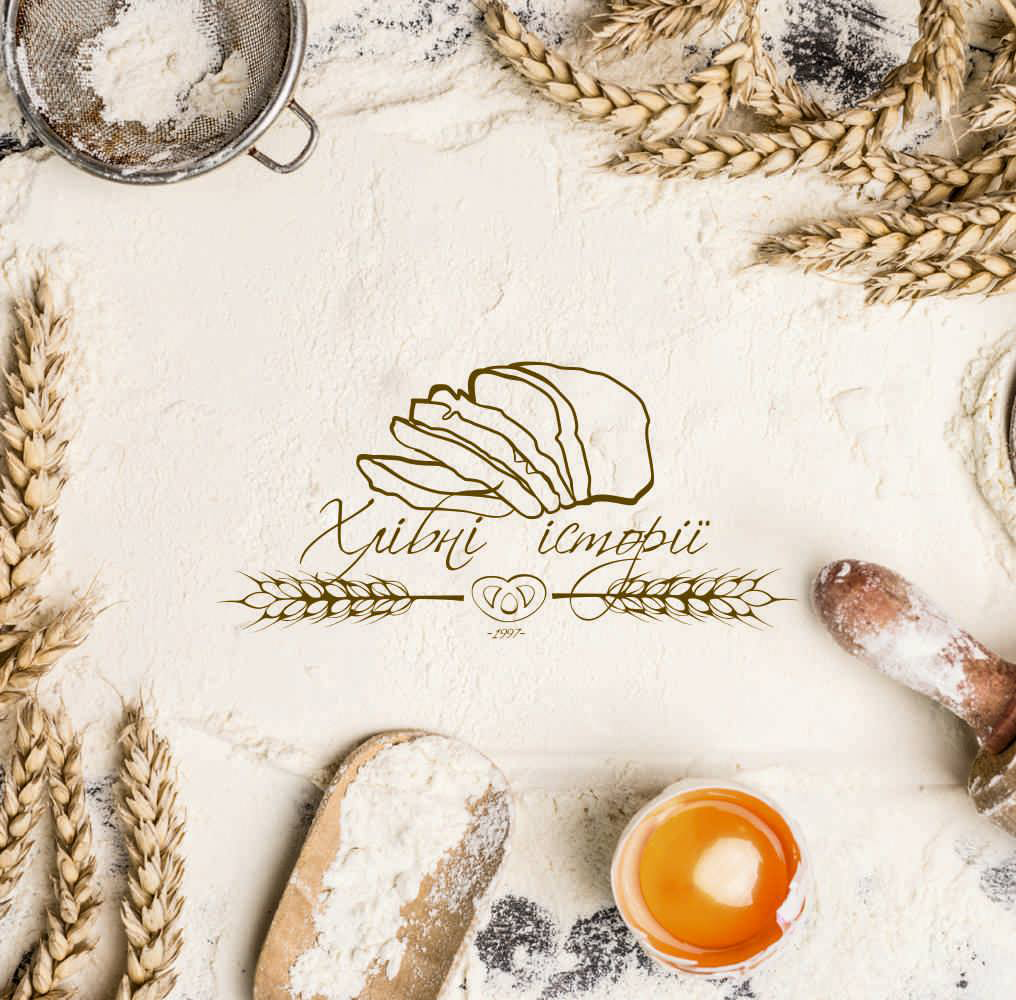
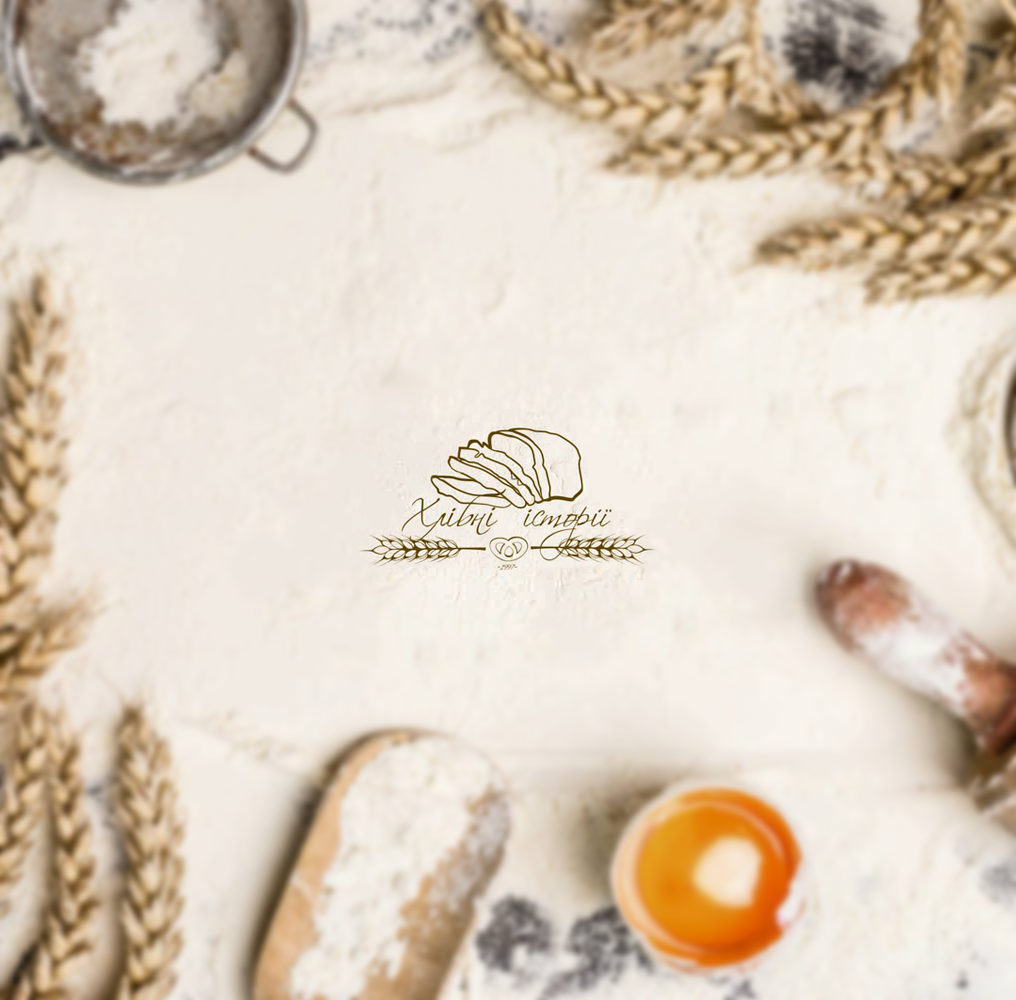
WelcomeScreen

diff --git a/components/WelcomeScreen/WelcomeScreen.jsx b/components/WelcomeScreen/WelcomeScreen.jsx
@@ -1,15 +1,19 @@
 import React from "react";
-import { View, Image, Text } from "react-native";
+import { View, Image, Text, Alert, Pressable } from "react-native";
+//import QuizzScreen from '../QuizzScreen/QuizScreen.jsx'
 import s from './WelcomeScreen.module.css';
 
-const WelcomeScreen = () => {
+const WelcomeScreen = (navigation) => {
     const hlibniIstorii = require('../../assets/hlibni-storii.png');
 
     return (
         <View>
             <Image style={s.image} source={hlibniIstorii}>
             </Image>
-            <Text>Асортимент продукції</Text>
+            <Text style={s.text}>Асортимент продукції</Text>
+            <Pressable style={s.button} onPress={() => Alert.alert('Розпочато')}>
+                <Text style={s.buttonText}>Розпочати</Text>
+            </Pressable>
         </View>
     )
 }

diff --git a/components/WelcomeScreen/WelcomeScreen.module.css b/components/WelcomeScreen/WelcomeScreen.module.css
@@ -1,9 +1,39 @@
 .image {
-    width: 800;
-    height: 800;;
-    /* position: "absolute"; */
-    top: 0;
+    width: 900;
+    height: 900;
+    position: absolute;
+    top: -410;
+    left: -290;
+    right: 0;
+    bottom: 0;
+}
+
+.text {
+    color: #5f4700;
+    text-shadow: 1px 1px 1px black;
+    font-family: Gill Sans;
+    font-style: italic;
+    font-size: 35;
+    top: -90;
     left: 0;
     right: 0;
     bottom: 0;
+}
+
+.button {
+    background-color: #241900;
+    margin-left: auto;
+    margin-right: auto;
+    border-radius: 20px;
+    top: 95;
+    left: 0;
+    right: 0;
+    bottom: 0;
+    padding: 7px 15px
+}
+
+.buttonText {
+    font-family: Gill Sans;
+    font-size: 40;
+    color: aliceblue;
 }

diff --git a/App.js b/App.js
@@ -1,12 +1,13 @@
 import { StatusBar } from 'expo-status-bar';
 import { StyleSheet, Text, View } from 'react-native';
 import WelcomeScreen from './components/WelcomeScreen/WelcomeScreen.jsx';
+import QuizzScreen from './components/Quizz/QuizzScreen.jsx';
 
 export default function App() {
   return (
     <View style={styles.container}>
+      {/* <QuizzScreen/> */}
       <WelcomeScreen />
-      <Text>Text here</Text>
       <StatusBar style="auto" />
     </View>
   );

diff --git a/components/Quizz/QuizzScreen.jsx b/components/Quizz/QuizzScreen.jsx
@@ -1,0 +1,12 @@
+import React from "react";
+import { View, Text } from "react-native";
+
+const QuizzScreen = () => {
+    return (
+        <View>
+            <Text> This is the quizz screen</Text>
+        </View>
+    )
+}
+
+export default QuizzScreen;
